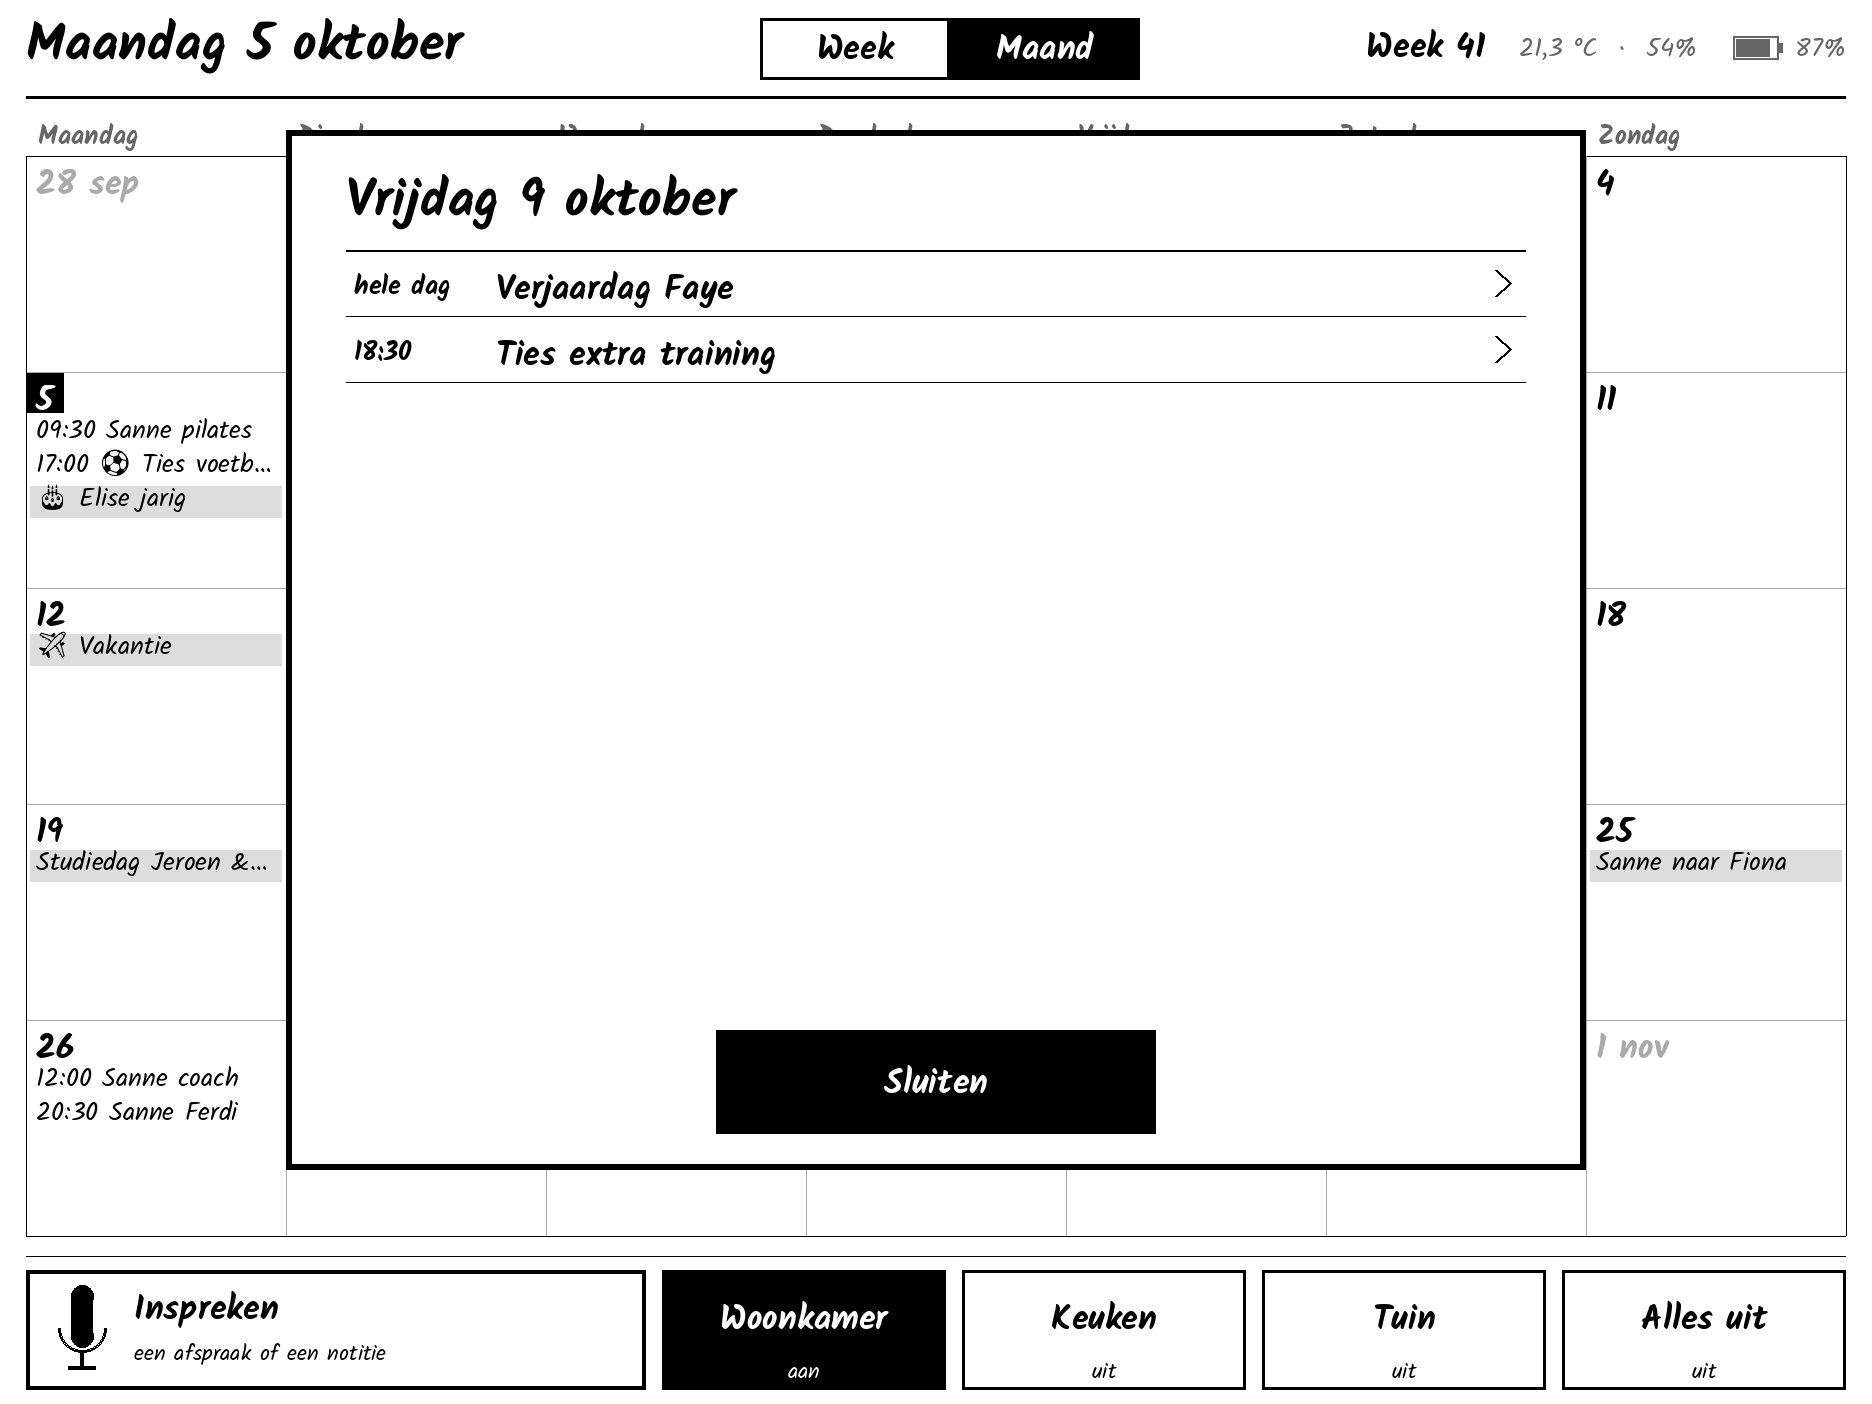
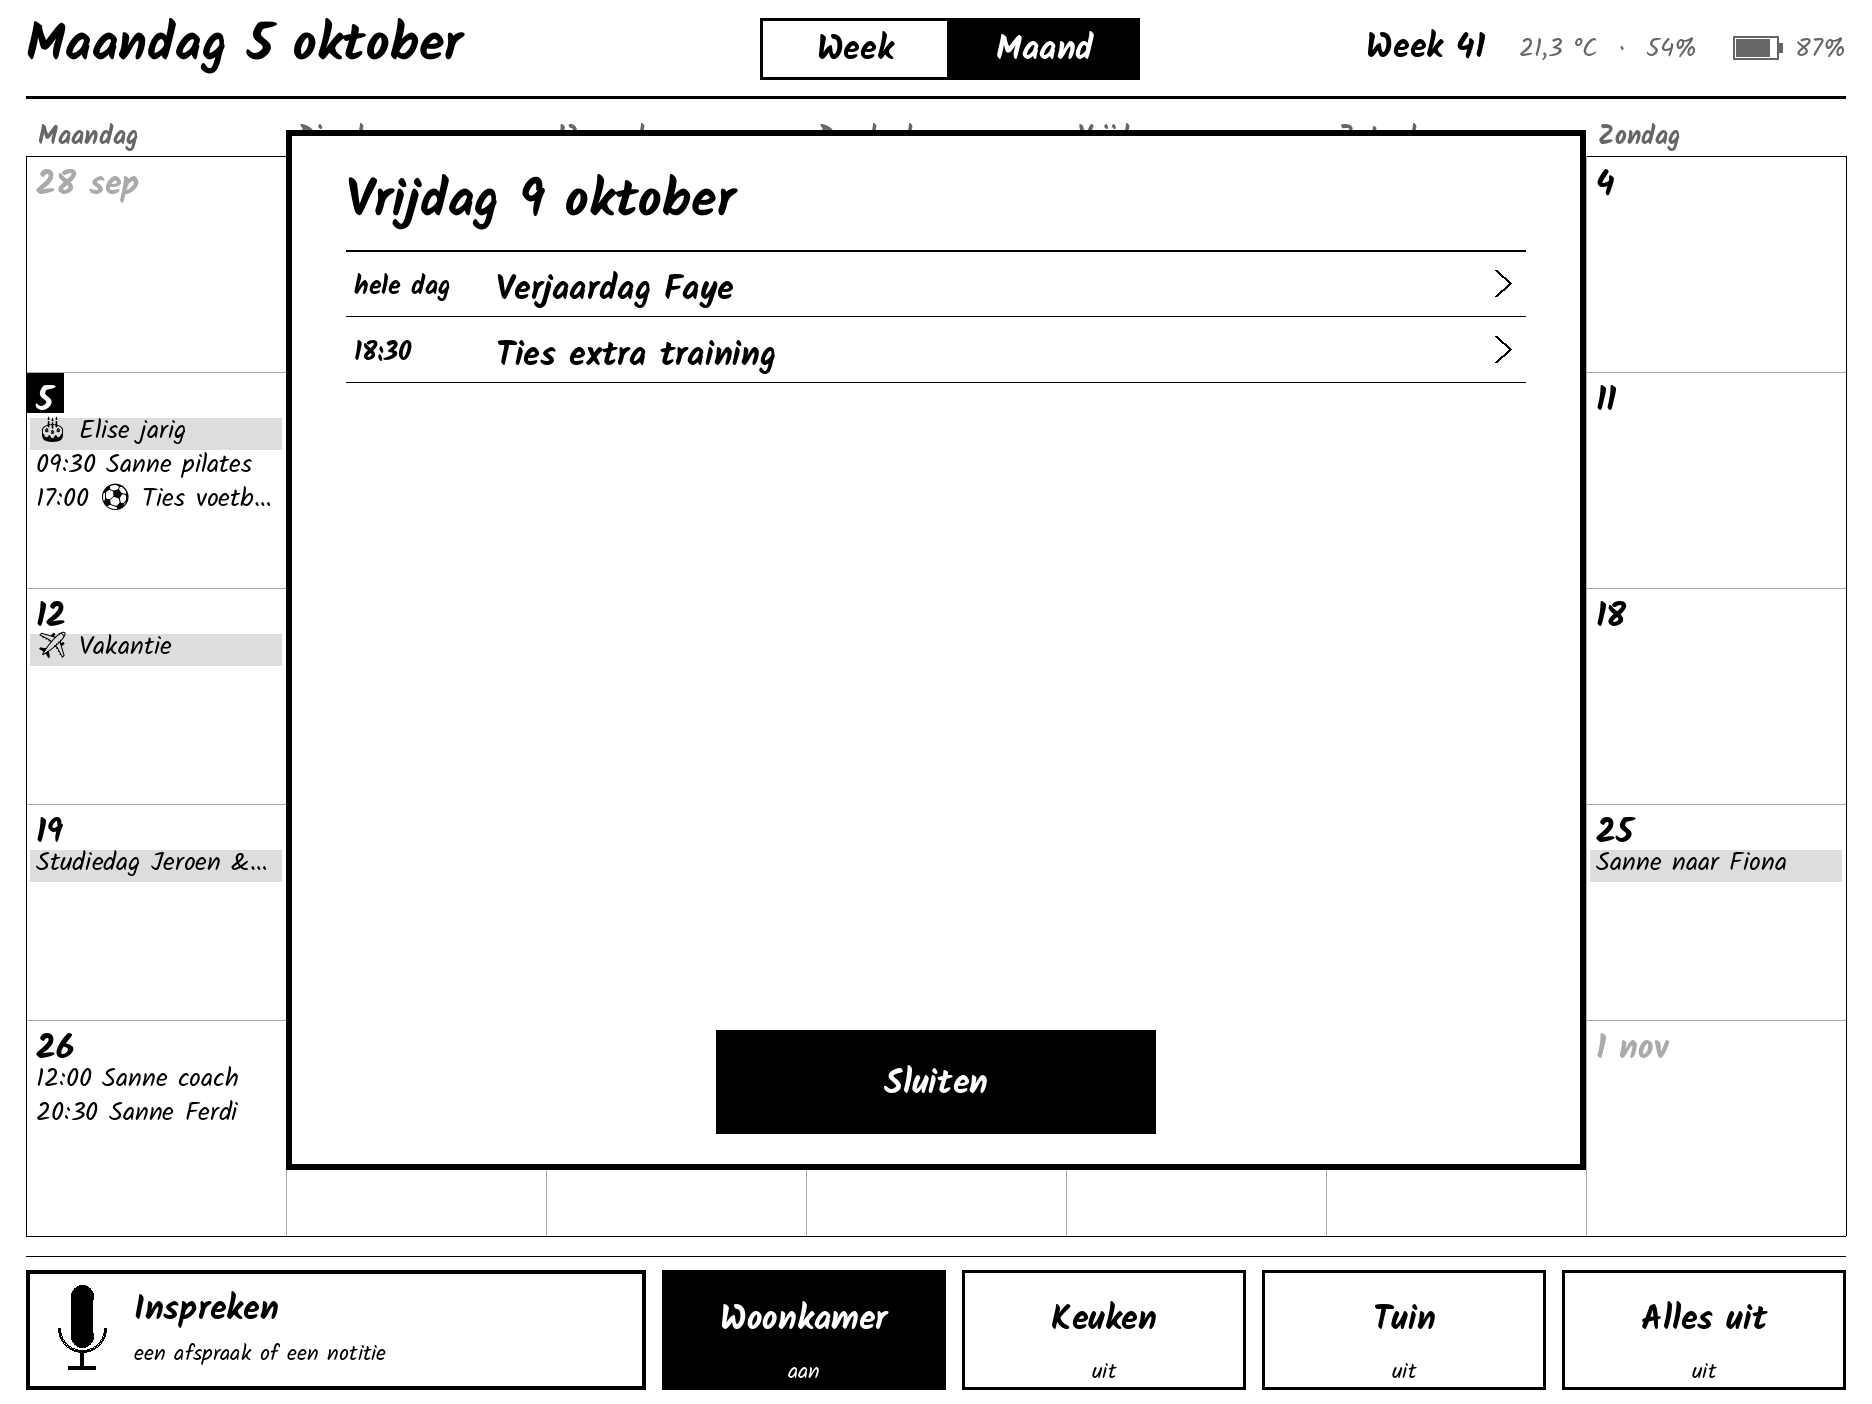
Sort events by time with all-day first; no vanaf/tot on multi-day bars
- Blueprint sorted the lines as strings including the ~id, so events
  within a day were ordered by id instead of time. Sort on date + time.
- Firmware also sorts per day (all-day first, then by time), so the
  order is right regardless of what HA sends.
- Multi-day timed events: plain gray bar, without "vanaf"/"tot" prefix.

Changed region(s): [[0.0, 0.2756, 0.1549, 0.3675]]

diff --git a/tools/preview/tests.cpp b/tools/preview/tests.cpp
@@ -35,8 +35,8 @@ int main() {
       "2026-10-06||Lege tijd\n"
       "2026-10-07|10:00|Titel met | streep");
   assert(lijst.size() == 4);
-  assert(lijst[0].tijd == "09:30" && lijst[0].titel == "Pilates");
-  assert(lijst[1].tijd.empty() && lijst[1].titel == "Elise jarig");
+  assert(lijst[0].tijd.empty() && lijst[0].titel == "Elise jarig");  // hele dag eerst
+  assert(lijst[1].tijd == "09:30" && lijst[1].titel == "Pilates");
   assert(lijst[2].tijd.empty() && lijst[2].titel == "Lege tijd");
   assert(lijst[3].titel == "Titel met | streep");
   assert(lees_afspraken("").empty());
@@ -231,6 +231,12 @@ int main() {
   assert(inhoud_hash(a) == inhoud_hash(b));
   b.notities[0].afgevinkt = true;
   assert(inhoud_hash(a) != inhoud_hash(b));
+
+  // Sortering: per dag hele dag eerst, dan op tijd (ongeacht de volgorde van HA)
+  {
+    auto l = lees_afspraken("2026-10-09~a|08:00|C\n2026-10-08~z|19:00|B\n2026-10-08~b|08:00|A\n2026-10-08~c|-|Hele dag");
+    assert(l.size() == 4 && l[0].titel == "Hele dag" && l[1].titel == "A" && l[2].titel == "B" && l[3].titel == "C");
+  }
 
   // Alleen het verschil verversen: veranderde dagkolom en/of notities
   {

diff --git a/esphome/components/ink/ink_kalender.h b/esphome/components/ink/ink_kalender.h
@@ -365,6 +365,14 @@ inline std::vector<Afspraak> lees_afspraken(const std::string &tekst) {
     af.titel = zonder_onbekende_iconen(af.titel);
     uit.push_back(af);
   }
+  // Per dag: hele dag (en meerdaagse) bovenaan, daarna van vroeg naar laat.
+  std::stable_sort(uit.begin(), uit.end(), [](const Afspraak &x, const Afspraak &y) {
+    if (!(x.datum == y.datum))
+      return dagnummer(x.datum) < dagnummer(y.datum);
+    if (x.tijd.empty() != y.tijd.empty())
+      return x.tijd.empty();
+    return x.tijd < y.tijd;
+  });
   return uit;
 }
 
